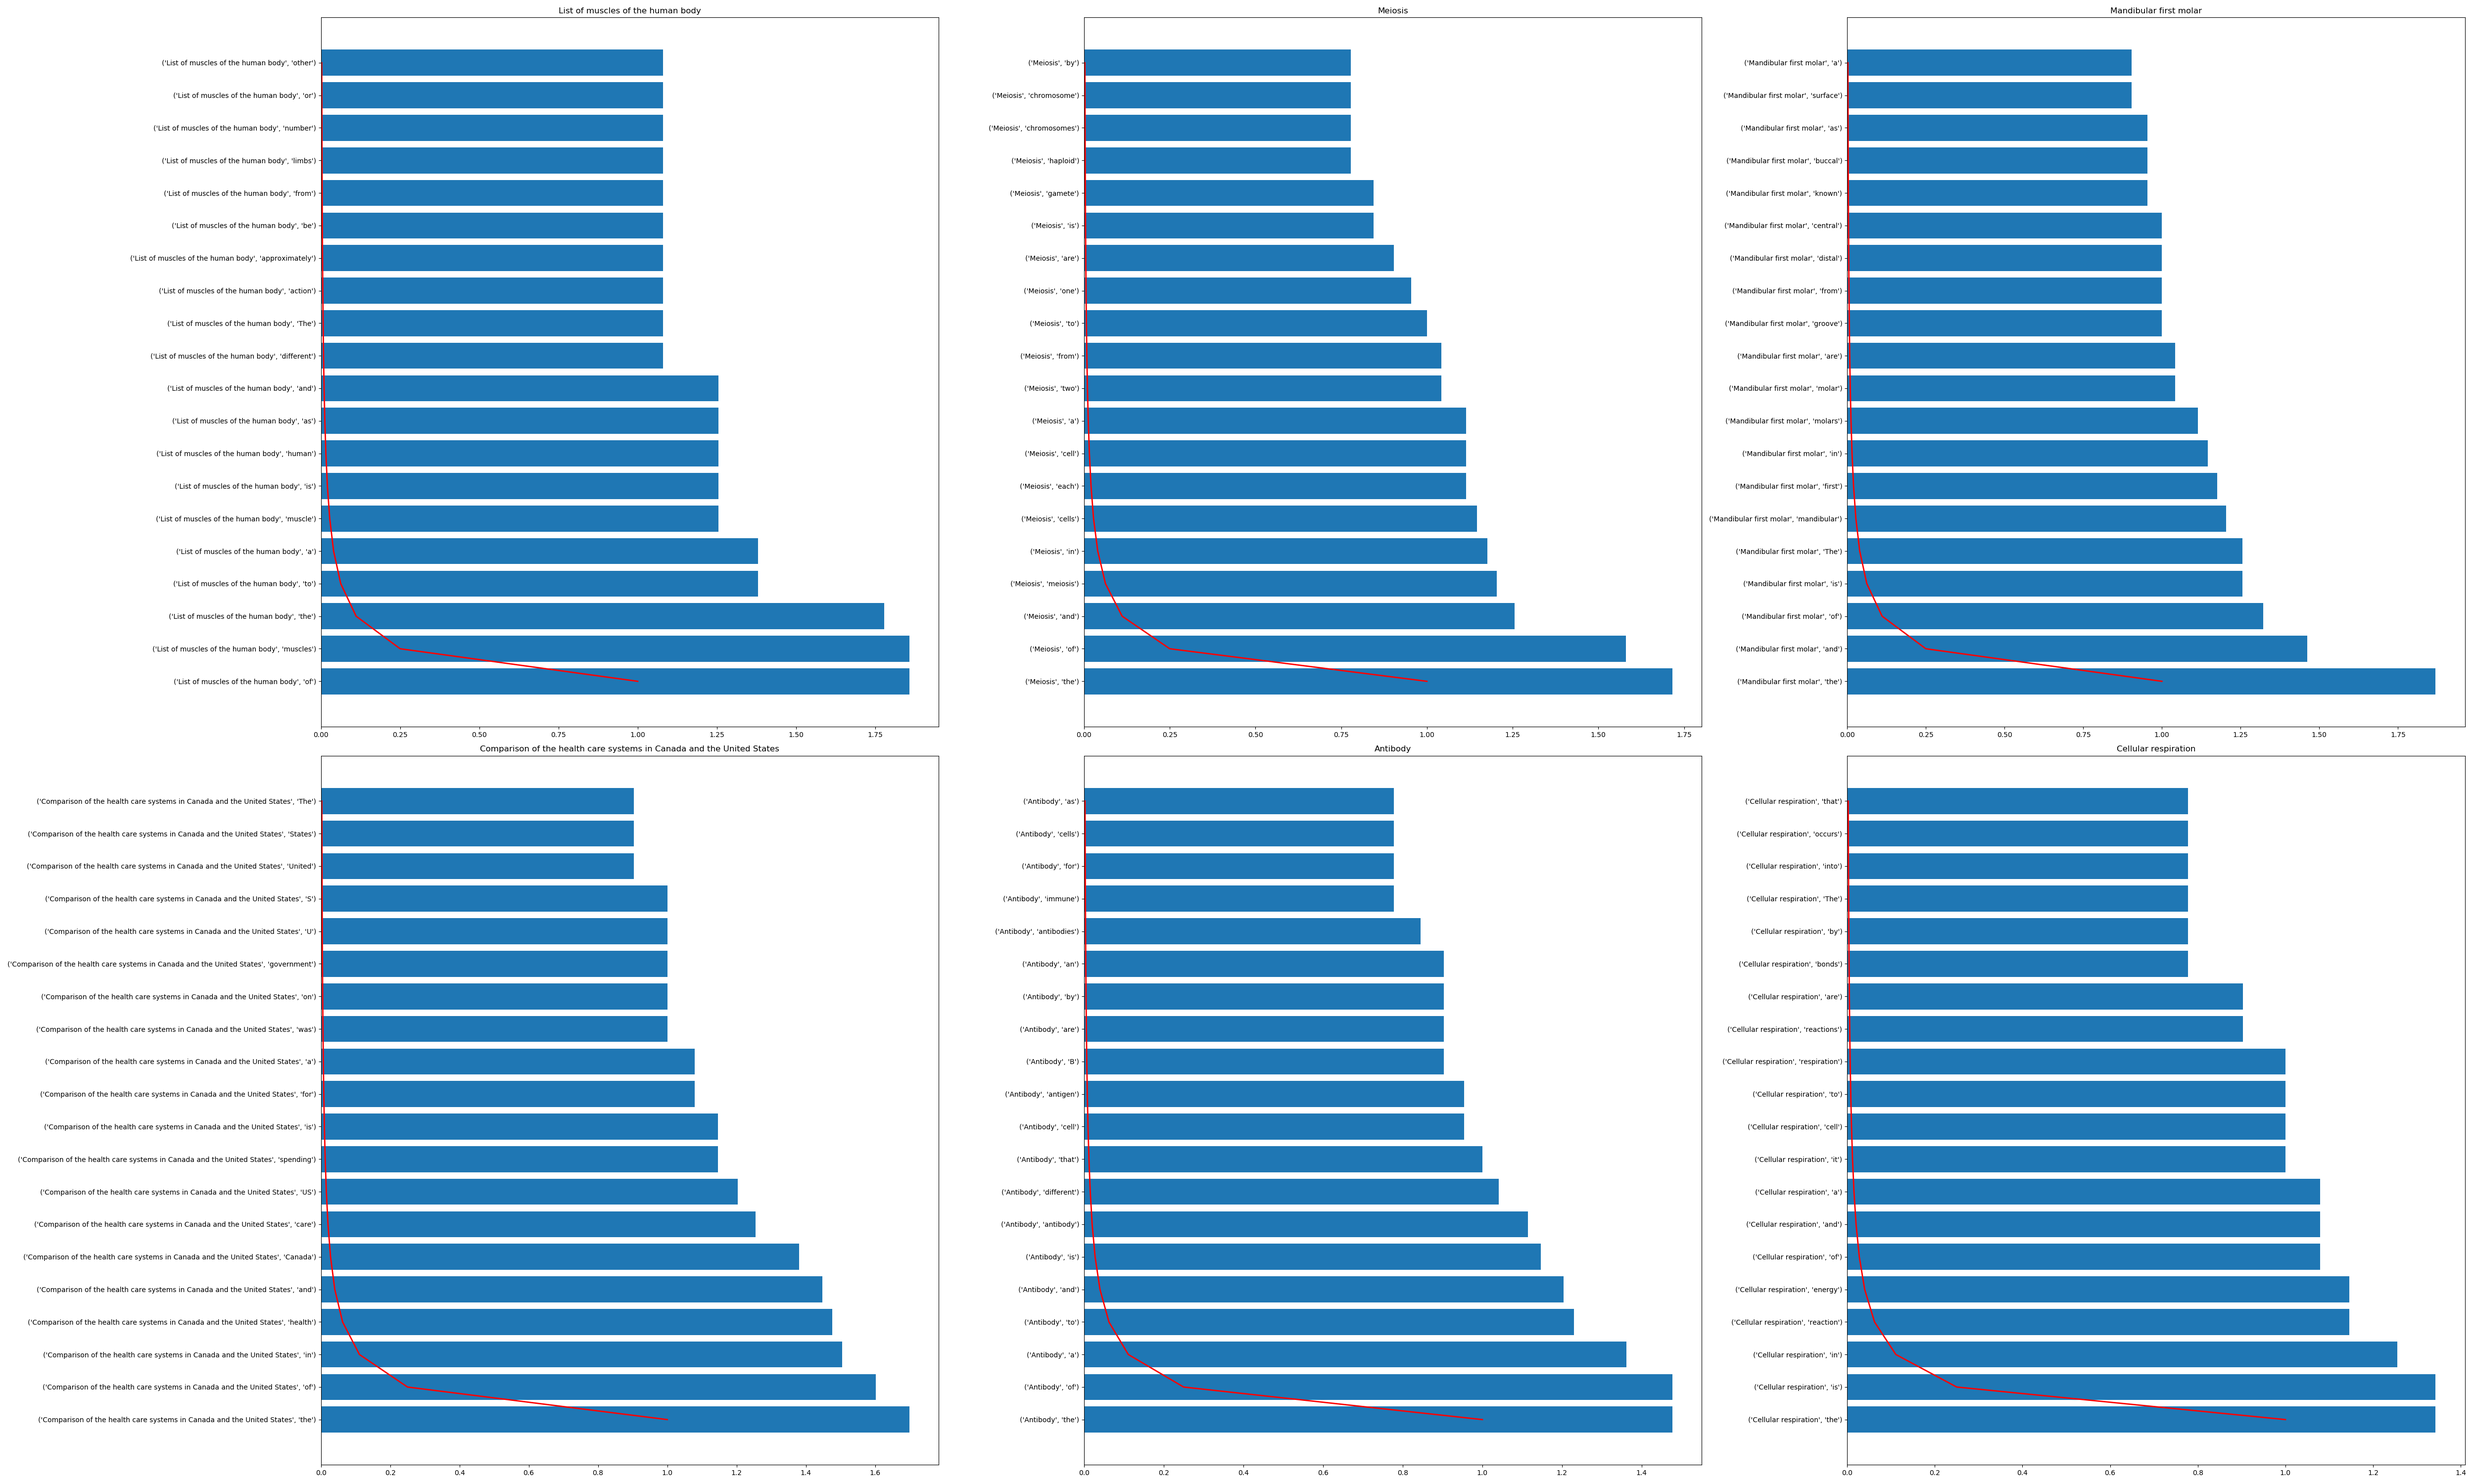
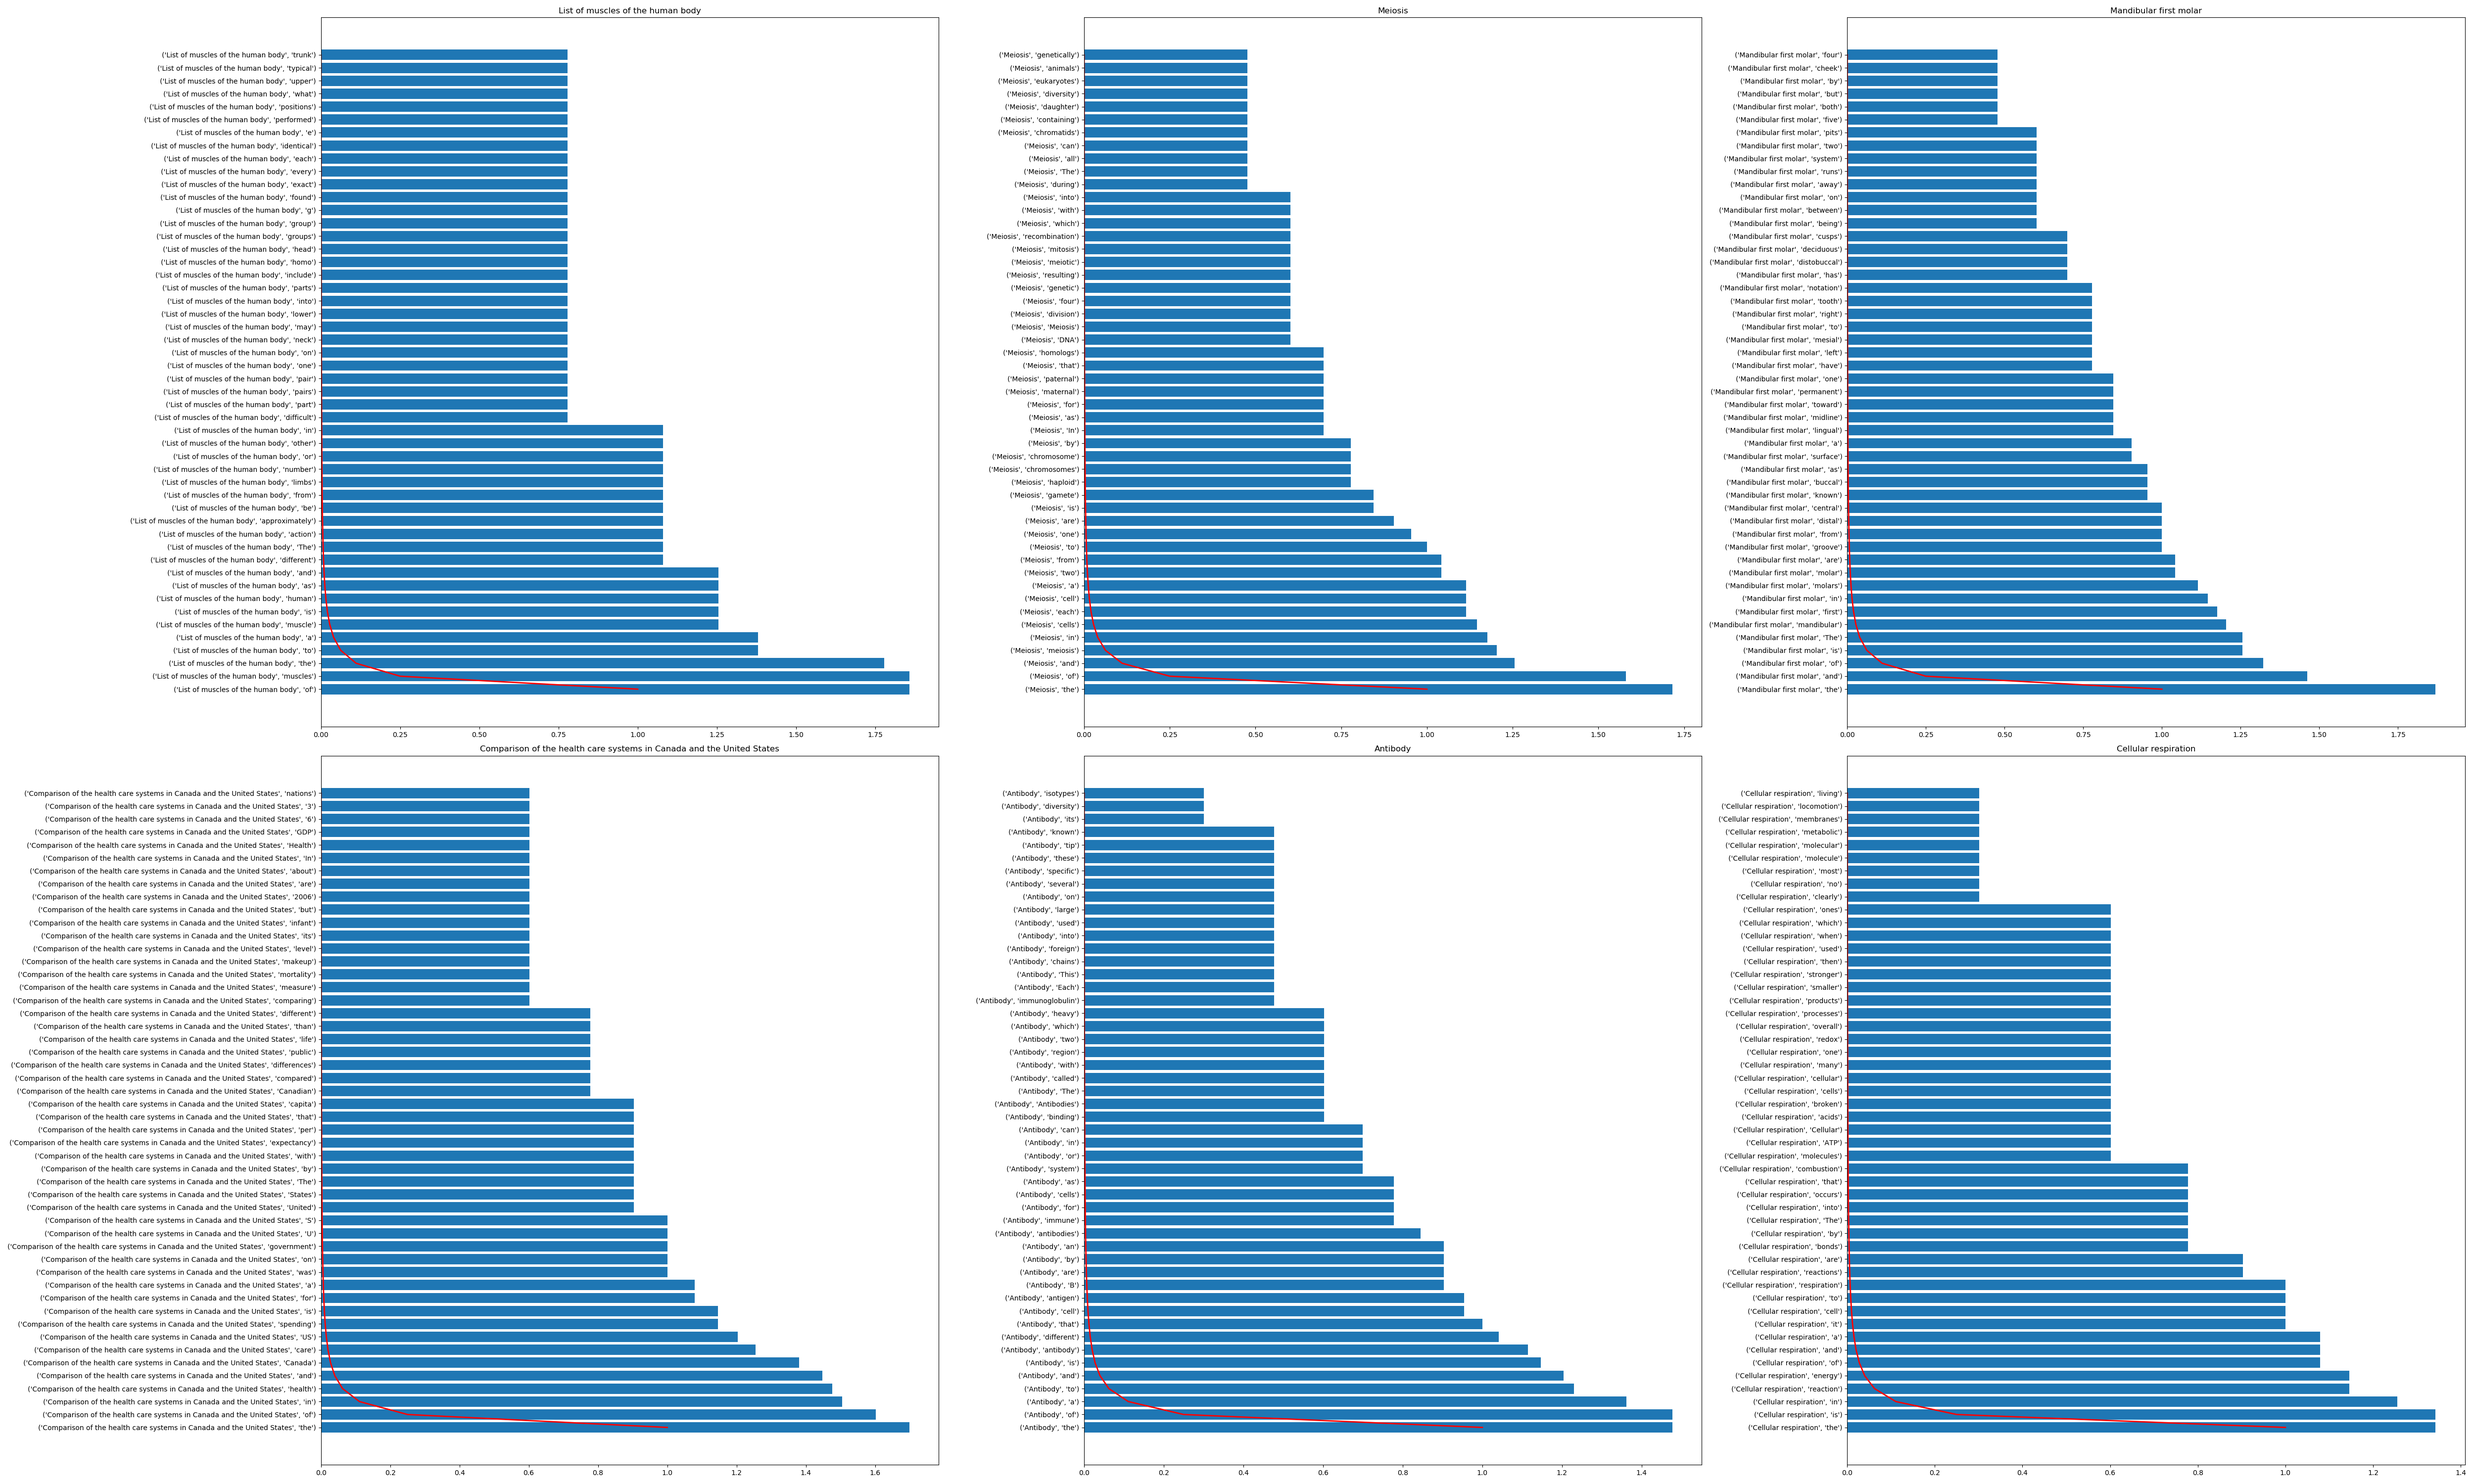
Adjusted graphs and added to README

diff --git a/src/main.py b/src/main.py
@@ -19,16 +19,18 @@ def count_words_in_data(healthcare_df, text_df, remove_stop=False):
 
 def plotting_word_counts(healthcare_df, text_df, counts_df, total_counts_df, labels):
     pretty_plot_top_n(counts_df['n_w'], top_n=3, filepath='graphs/wordcount_with_stopwords.png')
+    # pretty_plot_top_n(total_counts_df['n_w'], top_n=3, filepath='graphs/wordcount_wikiQA_stopwords.png')
     top_n_dfs = make_violins_pipeline(healthcare_df, labels)
-    plot_zipf(top_n_dfs, filepath='graphs/collaged_zipf.png', top_n=20, numrows=2, numcols=3)
+    plot_zipf(top_n_dfs, filepath='graphs/collaged_zipf.png', top_n=50, numrows=2, numcols=3)
     plot_multi_top_n(top_n_dfs, filepath='graphs/collaged_topn.png', top_n=10, numrows=2, numcols=3)
     make_counts_violin(counts_df, filepath='graphs/healthcare_violin.png')
     make_counts_violin(total_counts_df, filepath='graphs/wikiQA_violin.png')
 
 def plotting_word_counts_no_stopwords(healthcare_df, text_df, counts_df, total_counts_df, labels):
     pretty_plot_top_n(counts_df['n_w'], top_n=3, filepath='graphs/wordcount_no_stopwords.png')
+    # pretty_plot_top_n(total_counts_df['n_w'], top_n=3, filepath='graphs/wordcount_wiki_no_stopwords.png')
     top_n_dfs = make_violins_pipeline(healthcare_df, labels, remove_stop=True)
-    plot_zipf(top_n_dfs, filepath='graphs/collaged_zipf_no_stopwords.png', top_n=20, numrows=2, numcols=3)
+    plot_zipf(top_n_dfs, filepath='graphs/collaged_zipf_no_stopwords.png', top_n=50, numrows=2, numcols=3)
     plot_multi_top_n(top_n_dfs, filepath='graphs/collaged_topn_no_stopwords.png', top_n=5, numrows=2, numcols=3)
     make_counts_violin(counts_df, filepath='graphs/healthcare_violin_no_stopwords.png')
     make_counts_violin(total_counts_df, filepath='graphs/wikiQA_violin_no_stopwords.png')  
@@ -80,8 +82,8 @@ if __name__ == '__main__':
     next_6 = ['Vitamin', 'Diagnosis-related group', 'Multiple sclerosis', 'Vitamin A', 'Digestion', \
               'Health care in the United States']
     next_n_dfs = make_violins_pipeline(healthcare_df, next_6)
-    plot_zipf(next_n_dfs, filepath='graphs/next6_zipf.png', top_n=20, numrows=2, numcols=3)
+    plot_zipf(next_n_dfs, filepath='graphs/next6_zipf.png', top_n=50, numrows=2, numcols=3)
     plot_multi_top_n(next_n_dfs, filepath='graphs/collaged_nextn.png', top_n=5, numrows=2, numcols=3)
     next_n_dfs = make_violins_pipeline(healthcare_df, next_6, remove_stop=True)
     plot_multi_top_n(next_n_dfs, filepath='graphs/collaged_nextn_no_stopwords.png', top_n=5, numrows=2, numcols=3)
-    plot_zipf(next_n_dfs, filepath='graphs/next6_zipf_no_stopwords.png', top_n=20, numrows=2, numcols=3)
+    plot_zipf(next_n_dfs, filepath='graphs/next6_zipf_no_stopwords.png', top_n=50, numrows=2, numcols=3)

diff --git a/README.md b/README.md
@@ -79,6 +79,15 @@ Here are the bar charts of the 6 categories...
 
 ![top 6](graphs/collaged_topn_no_stopwords.png)
 
+For extra data collection I ran the next 6 categories with the highest amount of answers through the plotting pipeline and produced the following graphs...
+
+### With Stop Words Included
+
+![next 6](graphs/collaged_nextn.png)
+
+### With Stop Words Removed
+
+![next 6](graphs/collaged_nextn_no_stopwords.png)
 
 ## An Interesting Trend...Zipf's Law
 While plotting these graphs an interesting trend kept occurring regardless if stop words were included or not. This trend is known as Zipf's Law.
@@ -86,3 +95,24 @@ While plotting these graphs an interesting trend kept occurring regardless if st
 ### Zipf's Law
 From Wikipedia:
 > Zipf's law is an empirical law formulated using mathematical statistics that refers to the fact that many types of data studied in the physical and social sciences can be approximated with a Zipfian distribution, one of a family of related discrete power law probability distributions. Zipf distribution is related to the zeta distribution, but is not identical... Thus the most frequent word will occur approximately twice as often as the second most frequent word, three times as often as the third most frequent word, etc.: the rank-frequency distribution is an inverse relation. For example, in the Brown Corpus of American English text, the word the is the most frequently occurring word, and by itself accounts for nearly 7% of all word occurrences (69,971 out of slightly over 1 million). True to Zipf's Law, the second-place word of accounts for slightly over 3.5% of words (36,411 occurrences), followed by and (28,852).
+
+
+To investigate this further I took the log10 of the word counts, this time of the top 50 words, and overlayed it with the zipf's distribution to see how it matched up. The results weren't disapointing. 
+
+### With Stop Words Included
+
+![top 6](graphs/collaged_zipf.png)
+![top 6](graphs/next6_zipf.png)
+
+### With Stop Words Removed
+
+![top 6](graphs/collaged_zipf_no_stopwords.png)
+![top 6](graphs/next6_zipf_no_stopwords.png)
+
+Even when we zoom out and look at the whole dataset that I had picked out we see the zipf's distribution coming into even by just looking at the top 3 most frequent words.
+![word count](graphs/wordcount_with_stopwords.png)
+![word count](graphs/wordcount_no_stopwords.png)
+
+## Conclusion
+
+While the top of the distribution, where the word count is the highest, the overall trend did occurr throughout the entirety of the distribution. It was also notable that the distribution seemed to be unaffected by the inclusion of stop words showing the true universality of the distribution. Potential reasons for why some of the word counts were a little top heavy was due to the fact that they were grouped by a certain category, increasing the likely hood that the same words would show up multiple times. Taking this into account it's important to remember that zipf's law is emergent and that it can not be proven by theory for when it shows up. At least not yet.
